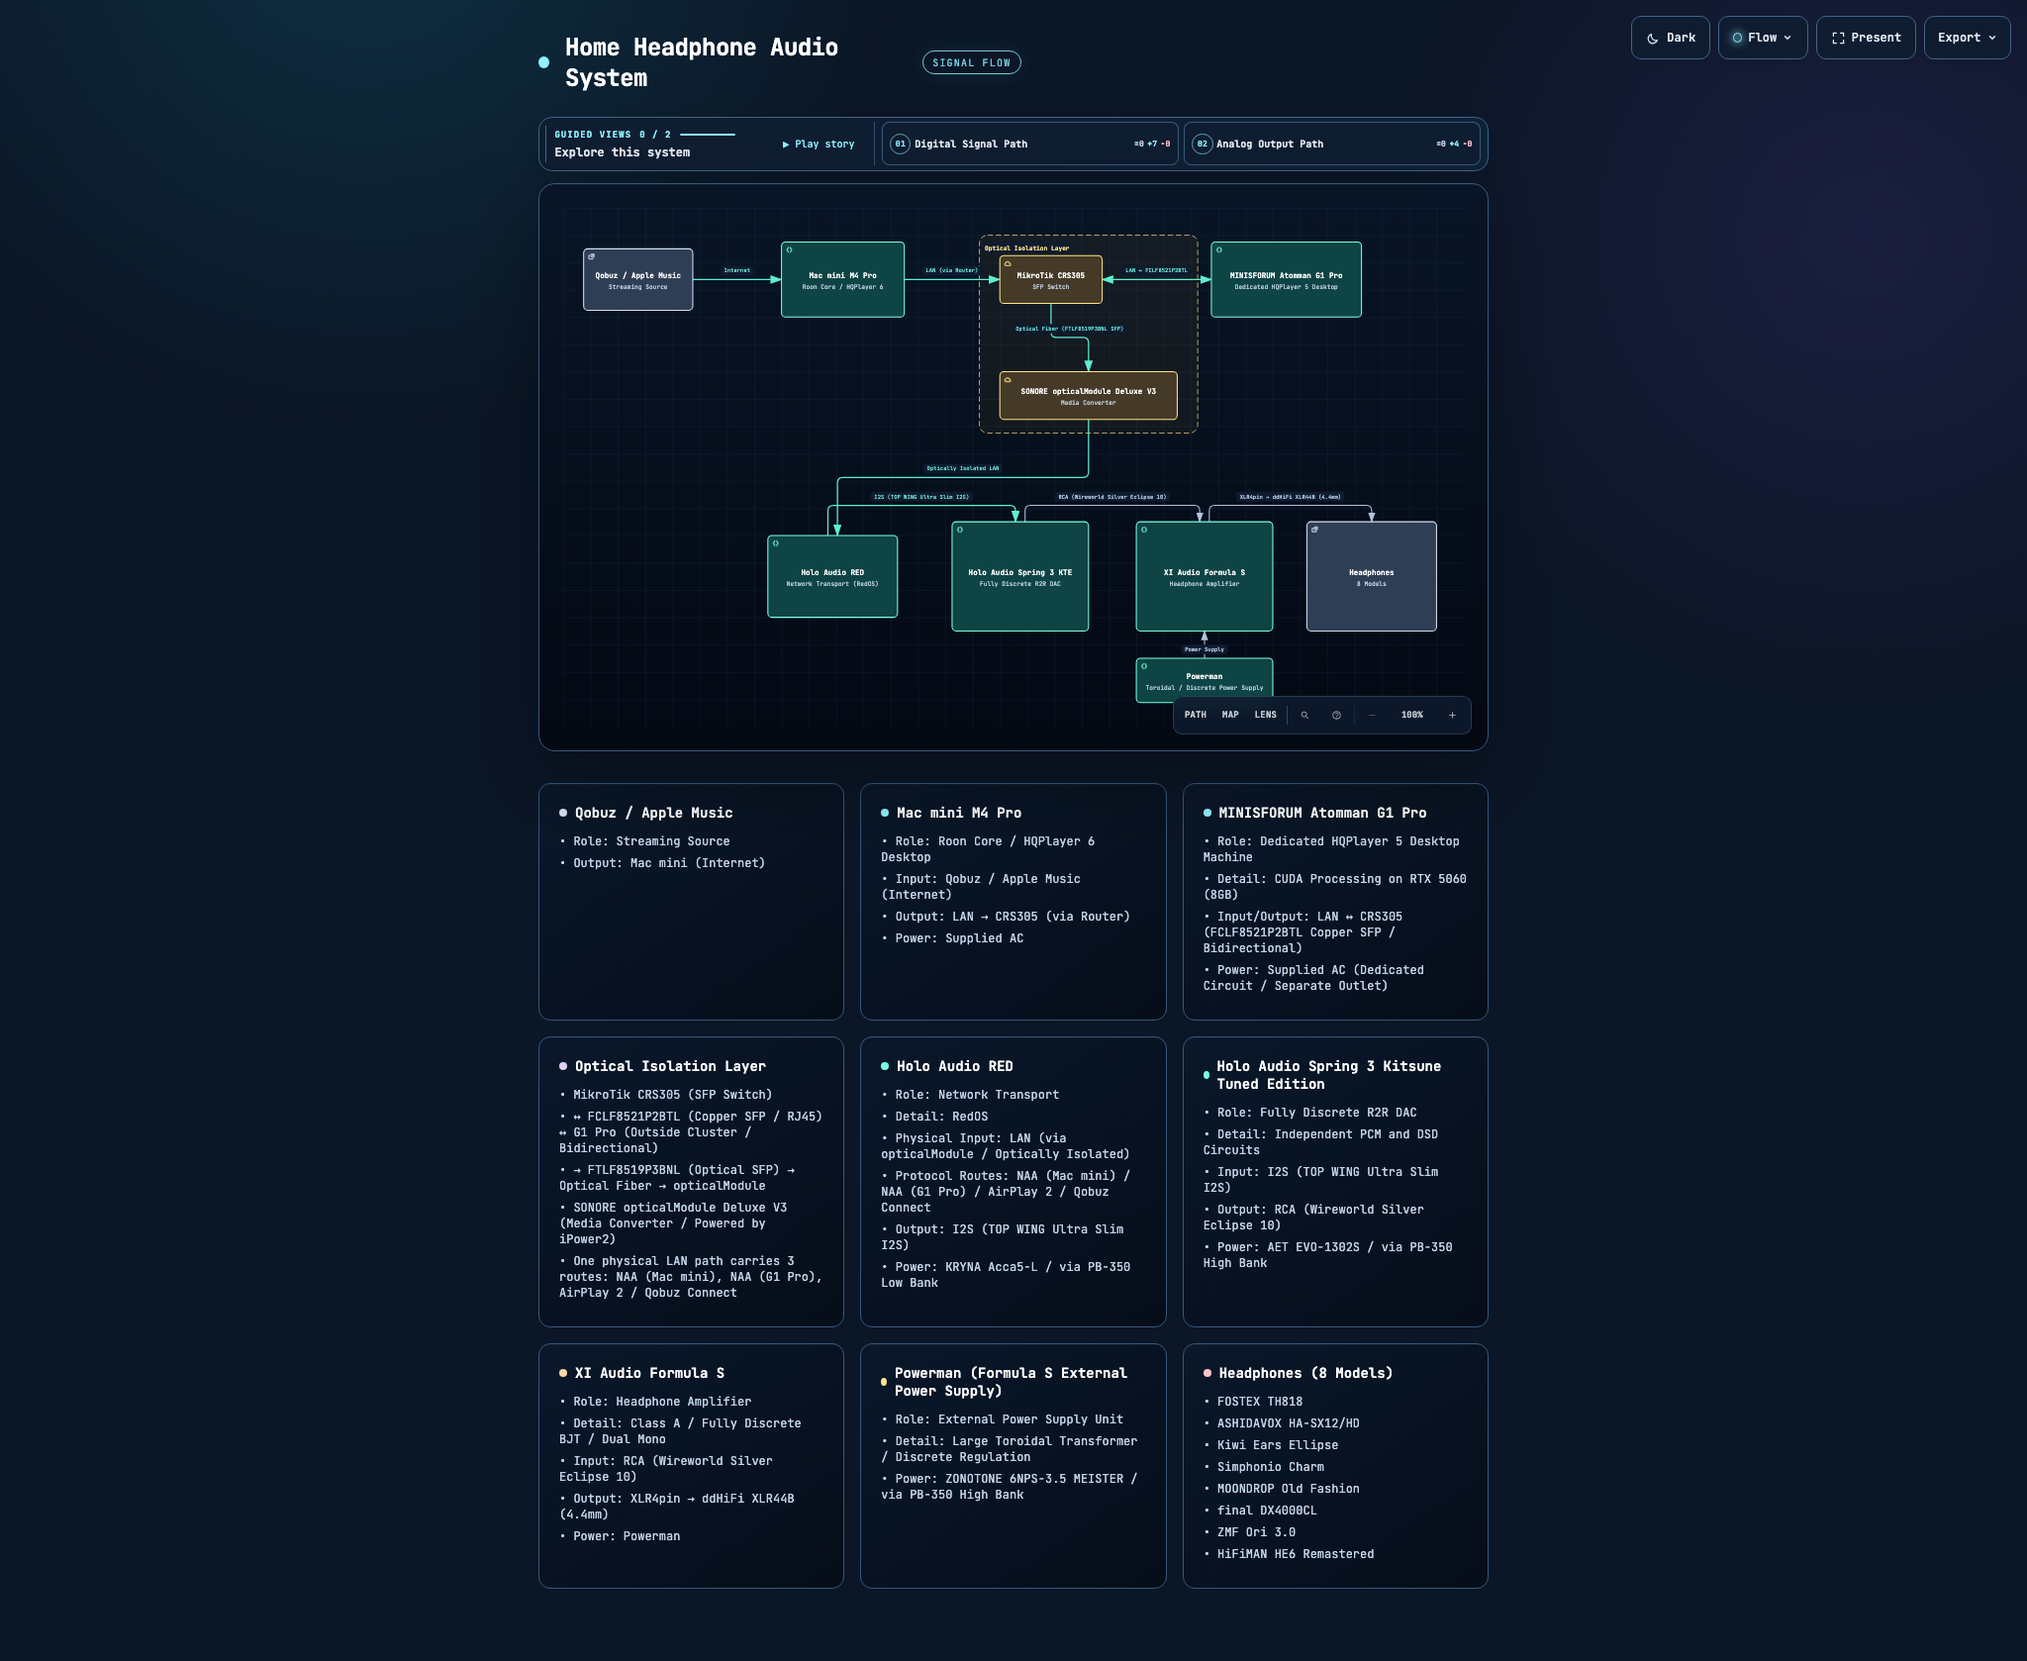
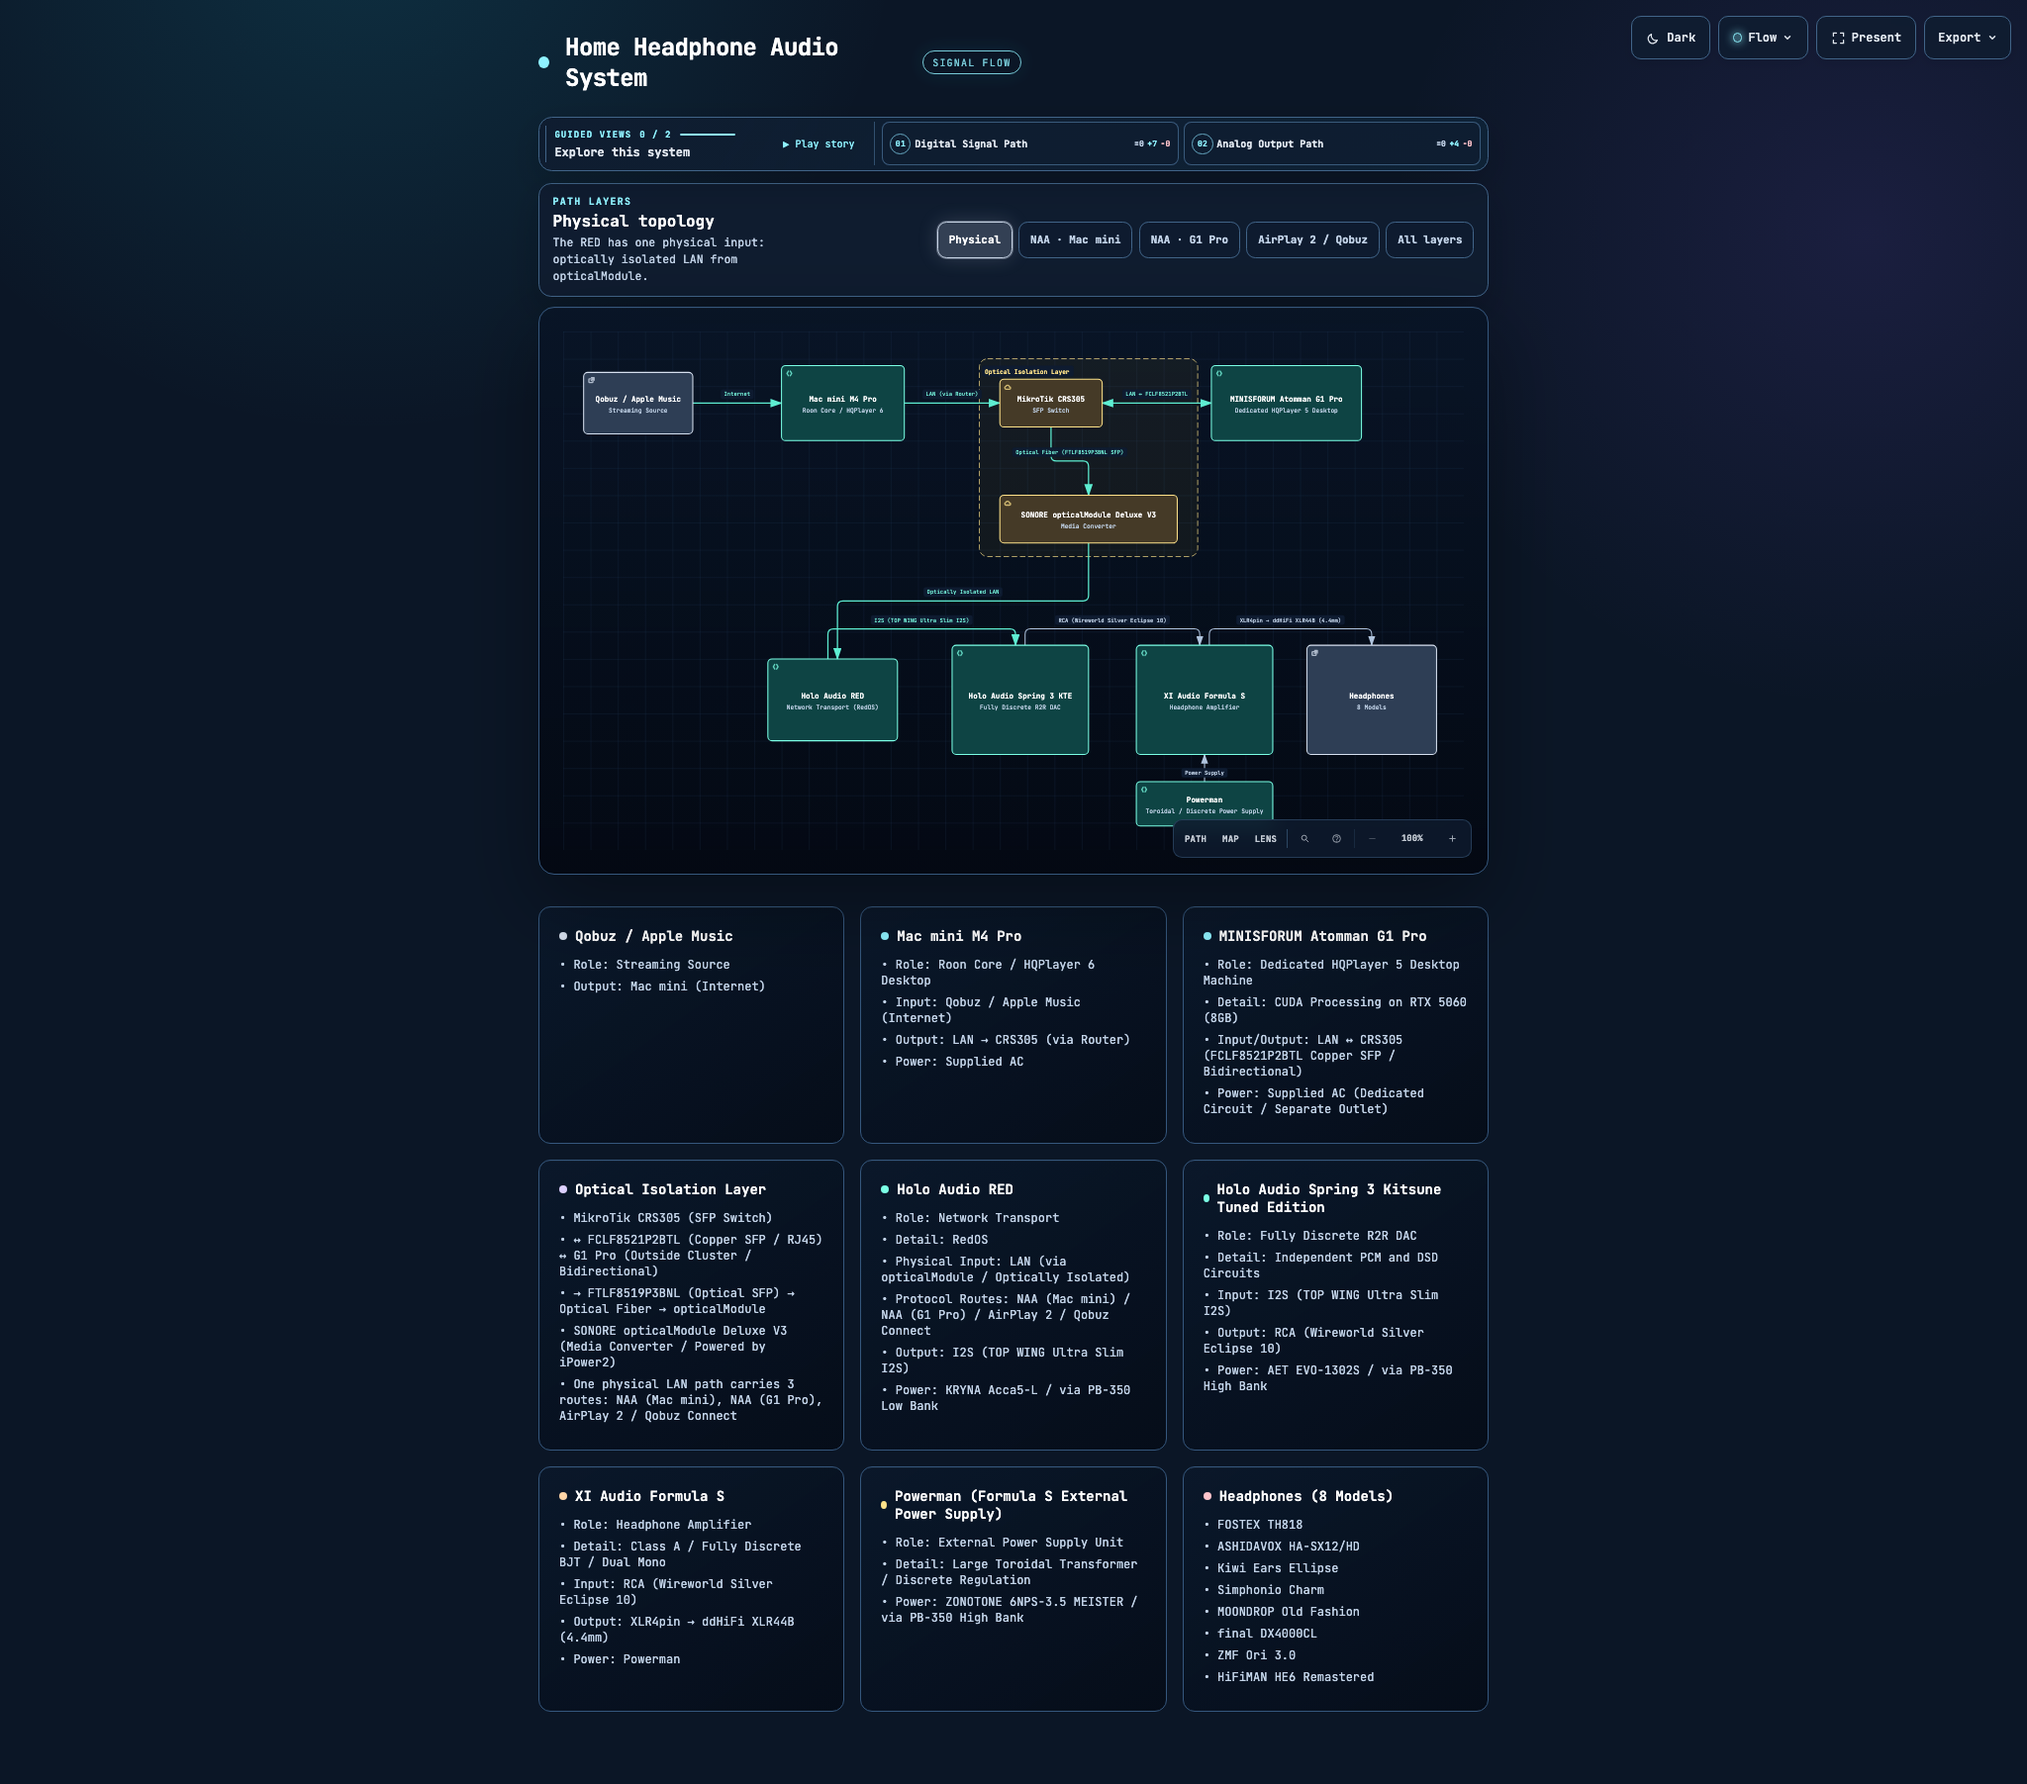
Add physical and protocol layer controls

diff --git a/index.html b/index.html
@@ -4846,6 +4846,119 @@
       .source-evidence-beacon,
       svg [data-node-id], svg [data-edge-from], svg [data-detail], svg [data-detail-anchor], svg [data-legend-hit], svg { transition: none !important; }
     }
+    /* Audio path layer selector */
+    .audio-layer-switcher {
+      display: grid;
+      grid-template-columns: minmax(10rem, 0.42fr) minmax(0, 1fr);
+      gap: 0.85rem;
+      align-items: center;
+      margin: 0 0 0.65rem;
+      padding: 0.72rem 0.85rem;
+      border: 1px solid var(--toolbar-border);
+      border-radius: 0.8rem;
+      background: var(--toolbar-bg);
+      box-shadow: 0 14px 36px rgba(0, 0, 0, 0.18);
+    }
+    .audio-layer-copy {
+      min-width: 0;
+      display: grid;
+      gap: 0.18rem;
+    }
+    .audio-layer-eyebrow {
+      color: var(--frontend-stroke);
+      font-size: 0.62rem;
+      font-weight: 700;
+      letter-spacing: 0.13em;
+      text-transform: uppercase;
+    }
+    .audio-layer-note {
+      color: var(--text-muted);
+      font-size: 0.72rem;
+      line-height: 1.45;
+    }
+    .audio-layer-options {
+      display: flex;
+      flex-wrap: wrap;
+      justify-content: flex-end;
+      gap: 0.4rem;
+    }
+    .audio-layer-button {
+      min-height: 2.35rem;
+      padding: 0.45rem 0.68rem;
+      border: 1px solid var(--toolbar-border);
+      border-radius: 0.58rem;
+      background: color-mix(in srgb, var(--toolbar-bg) 82%, transparent);
+      color: var(--text-muted);
+      font: inherit;
+      font-size: 0.68rem;
+      font-weight: 700;
+      cursor: pointer;
+      transition: border-color 150ms ease, color 150ms ease, background 150ms ease, transform 150ms ease;
+    }
+    .audio-layer-button:hover,
+    .audio-layer-button:focus-visible {
+      color: var(--text);
+      border-color: var(--frontend-stroke);
+      transform: translateY(-1px);
+    }
+    .audio-layer-button[aria-pressed="true"] {
+      color: #ffffff;
+      border-color: var(--layer-accent, var(--frontend-stroke));
+      background: color-mix(in srgb, var(--layer-accent, var(--frontend-stroke)) 20%, var(--toolbar-bg));
+      box-shadow: 0 0 0 1px color-mix(in srgb, var(--layer-accent, var(--frontend-stroke)) 36%, transparent),
+                  0 0 20px color-mix(in srgb, var(--layer-accent, var(--frontend-stroke)) 18%, transparent);
+    }
+    .audio-layer-button[data-audio-layer="physical"] { --layer-accent: #c7d4e5; }
+    .audio-layer-button[data-audio-layer="naa-mac"] { --layer-accent: #67e8f9; }
+    .audio-layer-button[data-audio-layer="naa-g1"] { --layer-accent: #7bffe5; }
+    .audio-layer-button[data-audio-layer="streaming"] { --layer-accent: #d8ccff; }
+    .audio-layer-button[data-audio-layer="all"] { --layer-accent: #ffe38a; }
+
+    .diagram-container svg [data-node-id],
+    .diagram-container svg [data-edge-id] {
+      transition: opacity 180ms ease, filter 180ms ease, stroke-width 180ms ease;
+    }
+    html[data-audio-layer="naa-mac"] { --arrow-emphasis: #67e8f9; }
+    html[data-audio-layer="naa-g1"] { --arrow-emphasis: #7bffe5; }
+    html[data-audio-layer="streaming"] { --arrow-emphasis: #d8ccff; }
+    html[data-audio-layer="naa-mac"] .diagram-container svg [data-node-id],
+    html[data-audio-layer="naa-mac"] .diagram-container svg [data-edge-id],
+    html[data-audio-layer="naa-g1"] .diagram-container svg [data-node-id],
+    html[data-audio-layer="naa-g1"] .diagram-container svg [data-edge-id],
+    html[data-audio-layer="streaming"] .diagram-container svg [data-node-id],
+    html[data-audio-layer="streaming"] .diagram-container svg [data-edge-id] {
+      opacity: 0.13 !important;
+    }
+    html[data-audio-layer="naa-mac"] .diagram-container svg :is(#node-src, #node-macmini, #node-crs305, #node-optmod, #node-red),
+    html[data-audio-layer="naa-mac"] .diagram-container svg [data-edge-id="src-macmini"],
+    html[data-audio-layer="naa-mac"] .diagram-container svg [data-edge-id="macmini-crs305"],
+    html[data-audio-layer="naa-mac"] .diagram-container svg [data-edge-id="crs305-optmod"],
+    html[data-audio-layer="naa-mac"] .diagram-container svg [data-edge-id="optmod-red"],
+    html[data-audio-layer="naa-g1"] .diagram-container svg :is(#node-hpq, #node-crs305, #node-optmod, #node-red),
+    html[data-audio-layer="naa-g1"] .diagram-container svg [data-edge-id="crs305-hpq"],
+    html[data-audio-layer="naa-g1"] .diagram-container svg [data-edge-id="crs305-optmod"],
+    html[data-audio-layer="naa-g1"] .diagram-container svg [data-edge-id="optmod-red"],
+    html[data-audio-layer="streaming"] .diagram-container svg :is(#node-src, #node-crs305, #node-optmod, #node-red),
+    html[data-audio-layer="streaming"] .diagram-container svg [data-edge-id="crs305-optmod"],
+    html[data-audio-layer="streaming"] .diagram-container svg [data-edge-id="optmod-red"] {
+      opacity: 1 !important;
+    }
+    html[data-audio-layer="naa-mac"] .diagram-container svg path[data-edge-id="src-macmini"],
+    html[data-audio-layer="naa-mac"] .diagram-container svg path[data-edge-id="macmini-crs305"],
+    html[data-audio-layer="naa-mac"] .diagram-container svg path[data-edge-id="crs305-optmod"],
+    html[data-audio-layer="naa-mac"] .diagram-container svg path[data-edge-id="optmod-red"],
+    html[data-audio-layer="naa-g1"] .diagram-container svg path[data-edge-id="crs305-hpq"],
+    html[data-audio-layer="naa-g1"] .diagram-container svg path[data-edge-id="crs305-optmod"],
+    html[data-audio-layer="naa-g1"] .diagram-container svg path[data-edge-id="optmod-red"],
+    html[data-audio-layer="streaming"] .diagram-container svg path[data-edge-id="crs305-optmod"],
+    html[data-audio-layer="streaming"] .diagram-container svg path[data-edge-id="optmod-red"] {
+      stroke-width: 3.4 !important;
+      filter: drop-shadow(0 0 5px currentColor);
+    }
+    @media (max-width: 900px) {
+      .audio-layer-switcher { grid-template-columns: 1fr; }
+      .audio-layer-options { justify-content: flex-start; }
+    }
   </style>
 </head>
 <body>
@@ -5000,6 +5113,21 @@
         <ol class="guided-view-chapters" id="guided-view-chapters"></ol>
       </nav>
     </div>
+
+    <section class="audio-layer-switcher no-print" aria-label="Audio path layers">
+      <div class="audio-layer-copy">
+        <span class="audio-layer-eyebrow">Path layers</span>
+        <strong id="audio-layer-title">Physical topology</strong>
+        <small class="audio-layer-note" id="audio-layer-note">The RED has one physical input: optically isolated LAN from opticalModule.</small>
+      </div>
+      <div class="audio-layer-options" role="group" aria-label="Choose a physical or protocol layer">
+        <button class="audio-layer-button" type="button" data-audio-layer="physical" aria-pressed="true">Physical</button>
+        <button class="audio-layer-button" type="button" data-audio-layer="naa-mac" aria-pressed="false">NAA · Mac mini</button>
+        <button class="audio-layer-button" type="button" data-audio-layer="naa-g1" aria-pressed="false">NAA · G1 Pro</button>
+        <button class="audio-layer-button" type="button" data-audio-layer="streaming" aria-pressed="false">AirPlay 2 / Qobuz</button>
+        <button class="audio-layer-button" type="button" data-audio-layer="all" aria-pressed="false">All layers</button>
+      </div>
+    </section>
 
     <!-- Main Diagram -->
     <div class="diagram-container" data-detail-level="read"
@@ -14925,6 +15053,58 @@
         Archify.presentation.exit();
       }
     });
+  </script>
+  <script>
+    (function () {
+      var layers = {
+        physical: {
+          title: 'Physical topology',
+          note: 'The RED has one physical input: optically isolated LAN from opticalModule.'
+        },
+        'naa-mac': {
+          title: 'NAA · Mac mini',
+          note: 'HQPlayer 6 on the Mac mini reaches the RED over the shared CRS305 → opticalModule LAN path.'
+        },
+        'naa-g1': {
+          title: 'NAA · G1 Pro',
+          note: 'HQPlayer 5 on the G1 Pro reaches the RED over the same CRS305 → opticalModule LAN path.'
+        },
+        streaming: {
+          title: 'AirPlay 2 / Qobuz Connect',
+          note: 'Internet streaming enters through the router and uses the same CRS305 → opticalModule path; the Mac mini provides control only.'
+        },
+        all: {
+          title: 'All layers',
+          note: 'One physical optical LAN carries three logical routes: NAA (Mac mini), NAA (G1 Pro), and AirPlay 2 / Qobuz Connect.'
+        }
+      };
+      var buttons = Array.from(document.querySelectorAll('[data-audio-layer]'));
+      var title = document.getElementById('audio-layer-title');
+      var note = document.getElementById('audio-layer-note');
+      function applyLayer(mode) {
+        if (!layers[mode]) mode = 'physical';
+        document.documentElement.setAttribute('data-audio-layer', mode);
+        buttons.forEach(function (button) {
+          button.setAttribute('aria-pressed', button.getAttribute('data-audio-layer') === mode ? 'true' : 'false');
+        });
+        if (title) title.textContent = layers[mode].title;
+        if (note) note.textContent = layers[mode].note;
+        try { localStorage.setItem('headphone-audio-layer', mode); } catch (_) {}
+      }
+      buttons.forEach(function (button) {
+        button.addEventListener('click', function () {
+          applyLayer(button.getAttribute('data-audio-layer'));
+        });
+      });
+      var initial = 'physical';
+      try {
+        var requested = new URLSearchParams(window.location.search).get('layer');
+        var saved = localStorage.getItem('headphone-audio-layer');
+        if (layers[requested]) initial = requested;
+        else if (layers[saved]) initial = saved;
+      } catch (_) {}
+      applyLayer(initial);
+    })();
   </script>
 </body>
 </html>
